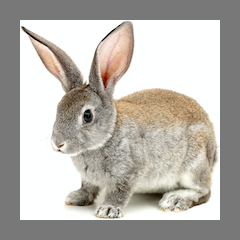
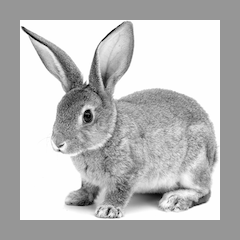
more

diff --git a/projects/Project04/examples.py b/projects/Project04/examples.py
@@ -9,22 +9,12 @@ for x in range(sx):
         gr = int ((r + g + b) / 3)
         p[x, y] = (gr, gr, gr)
 
+i.save('greyrabbit.png')
+
 def grey(p):
     r, g, b = p
     gr = int((r + g + b) / 3)
     return (gr, gr, gr)
-
-def process_pixels(f, i):
-    p = i.load()
-    i2 = i.copy()
-    p2 = i2.load()
-    sx, sy = i.size
-    for x in range(sx):
-        for y in range(sy):
-            p2[x, y] = f(p[x, y])
-    return i2
-
-gr = process_pixels(grey, i)
 
 def process_pixels_in_place(f, i):
    p = i.load()
@@ -33,11 +23,7 @@ def process_pixels_in_place(f, i):
        for y in range(sy):
            p[x, y] = f(p[x, y])
 
-gr.save('greyrabbit.png')
-
-n = Image.new('RGB', (500, 500))
-
-n.save('new.png')
+process_pixels_in_place(grey, i)
 
 def border(i, width, colour):
     sx, sy = i.size
@@ -48,6 +34,10 @@ def border(i, width, colour):
         for y in range(sy):
             p2[x + width, y + width] = p[x, y]
     return i2
+
+bordered = border(i, 20, (150, 150, 150))
+
+bordered.save('rabbit_border.png')
 
 i = Image.open('rabbit.png')
 
@@ -68,10 +58,6 @@ def blur(i):
             p2[x, y] = int (sumr / 9), int (sumg / 9), int (sumb / 9)
     return i2
 
-bordered = border(i, 20, (120, 120, 120))
-
-bordered.save('rabbit_border.png')
-
 white_bordered = border(i, 20, (255, 255, 255))
 
 x = blur(blur(blur(white_bordered)))
@@ -86,9 +72,10 @@ def make_images_blur(i, n):
         images.append(image)
     return images
 
-images = make_images_blur(bordered, 20)
+images = make_images_blur(white_bordered, 20)
 
-images[0].save('animation.gif', save_all=True, append_images=images[1:], duration=100, loop=0)
+images[0].save('animation.gif', save_all=True, append_images=images[1:],
+               duration=100, loop=0)
 
 def fadeby(f, p):
   r, g, b = p
@@ -97,10 +84,19 @@ def fadeby(f, p):
   b_out = int ((f * b + (100 - f) * 255) / 100)
   return (r_out, g_out, b_out)
 
+def process_pixels(f, i):
+    p = i.load()
+    i2 = i.copy()
+    p2 = i2.load()
+    sx, sy = i.size
+    for x in range(sx):
+        for y in range(sy):
+            p2[x, y] = f(p[x, y])
+    return i2
+
 def make_images(i):
     images = []
     for x in range(100, -1, -5):
-        print(x)
         def fade(p): return fadeby(x, p)
         faded = process_pixels(fade, i)
         images.append(faded)
